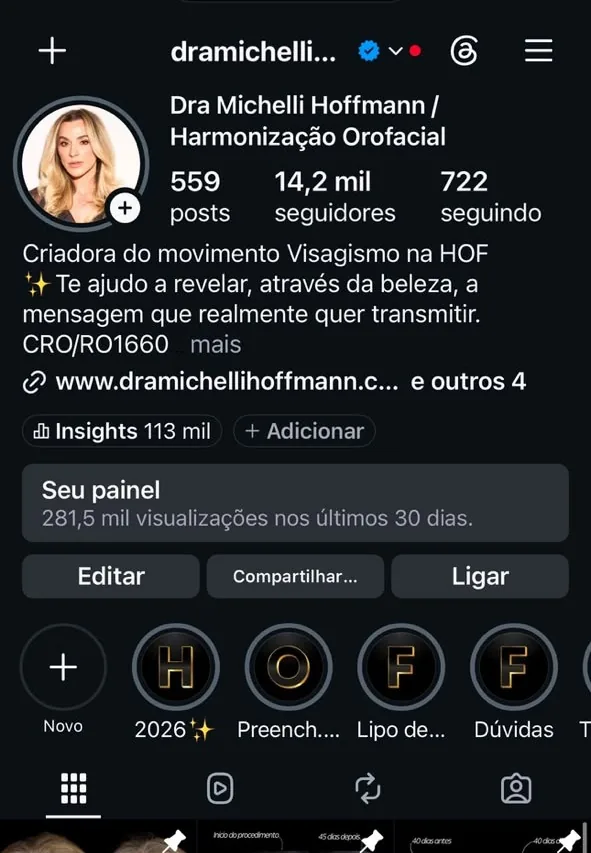
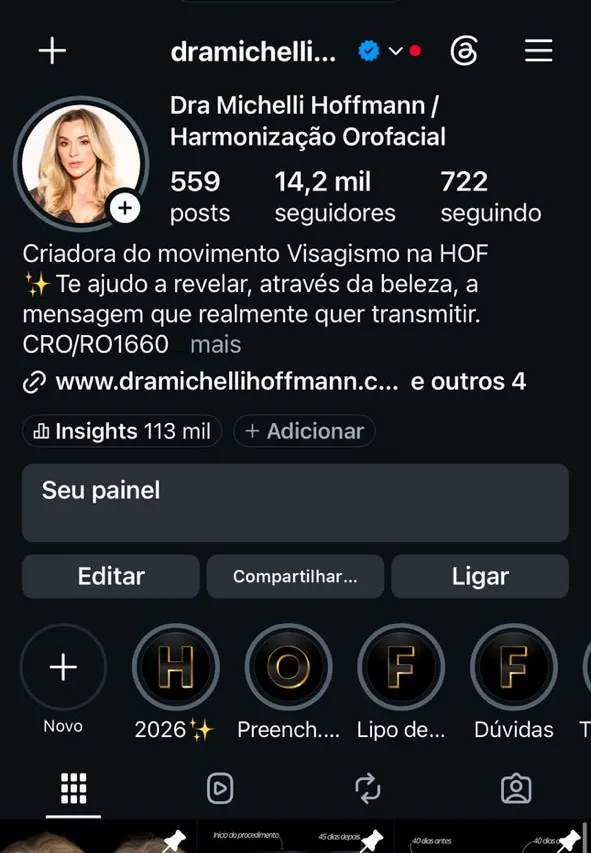
Totais nos prints, Michelli nova, sem headline nos serviços e espaçamento mais justo
Ainda não publicado: aguardando aprovação final.

Claude-Session: https://claude.ai/code/session_01Qdzs8DidFmEUhaW9UrPSR9

Changed region(s): [[0.0609, 0.5791, 0.5178, 0.6401], [0.6701, 0.5791, 0.7919, 0.6401], [0.5482, 0.5791, 0.6396, 0.6401]]

diff --git a/index.html b/index.html
@@ -189,7 +189,6 @@
           <div class="cine__copy">
             <p class="cine__kicker"><i></i>Meta, Google e TikTok Ads</p>
             <h3 class="cine__name"><span class="cine__line"><span>Tráfego pago</span></span></h3>
-            <p class="cine__title"><span class="cine__line"><span>Anúncio certo,</span></span><span class="cine__line"><span>pessoa certa,</span></span><span class="cine__line"><span>no seu WhatsApp.</span></span></p>
             <p class="cine__text">Anúncios no Instagram, Facebook, Google, YouTube e TikTok, com a campanha certa para cada objetivo.</p>
             <ul class="cine__feats"><li>Mensagens no WhatsApp</li><li>Formulários de cadastro (leads)</li><li>Ganho de seguidores</li><li>Pesquisa no Google</li><li>Anúncios no YouTube</li><li>Vendas no e-commerce</li></ul>
             <a href="https://wa.me/5598982787460?text=Ol%C3%A1!%20Vim%20pelo%20site%20e%20quero%20saber%20sobre%20tr%C3%A1fego%20pago%20%28Meta%2C%20Google%20e%20TikTok%20Ads%29." class="btn btn--primary btn--lg cine__cta" target="_blank" rel="noopener" data-track="whatsapp-trafego">
@@ -230,7 +229,6 @@
             <p class="cine__kicker"><i></i>Alta conversão</p>
             <span class="cine__badge">Bônus: link da bio grátis</span>
             <h3 class="cine__name"><span class="cine__line"><span>Landing pages</span></span></h3>
-            <p class="cine__title"><span class="cine__line"><span>Uma página</span></span><span class="cine__line"><span>feita pra</span></span><span class="cine__line"><span>virar contato.</span></span></p>
             <p class="cine__text">Páginas rápidas e persuasivas, feitas para transformar visitante em contato.</p>
             <ul class="cine__feats"><li>Copy focada em vendas</li><li>Pensada para o celular</li><li>Carregamento rápido</li><li>Botão direto para o WhatsApp</li><li>Formulário de captura</li><li>Pixel e Google Tag instalados</li><li class="cine__feat--hl">Link da bio incluso, sem custo, para quem fecha a landing page</li></ul>
             <a href="https://wa.me/5598982787460?text=Ol%C3%A1!%20Vim%20pelo%20site%20e%20quero%20uma%20landing%20page%20para%20o%20meu%20neg%C3%B3cio." class="btn btn--primary btn--lg cine__cta" target="_blank" rel="noopener" data-track="whatsapp-landing">
@@ -290,7 +288,6 @@
           <div class="cine__copy">
             <p class="cine__kicker"><i></i>Reels, anúncios e YouTube</p>
             <h3 class="cine__name"><span class="cine__line"><span>Edição de vídeos</span></span></h3>
-            <p class="cine__title"><span class="cine__line"><span>Prende nos</span></span><span class="cine__line"><span>primeiros segundos.</span></span><span class="cine__line"><span>Vende no final.</span></span></p>
             <p class="cine__text">Vídeos dinâmicos, com legenda, cortes e efeitos, que seguram a atenção e levam pra ação.</p>
             <ul class="cine__feats"><li>Reels e TikTok</li><li>Criativos para anúncios</li><li>Vídeos para YouTube</li><li>Legendas dinâmicas</li><li>Motion e efeitos</li><li>Cortes de lives e podcasts</li></ul>
             <a href="https://wa.me/5598982787460?text=Ol%C3%A1!%20Vim%20pelo%20site%20e%20quero%20edi%C3%A7%C3%A3o%20de%20v%C3%ADdeos." class="btn btn--primary btn--lg cine__cta" target="_blank" rel="noopener" data-track="whatsapp-videos">
@@ -343,7 +340,6 @@
           <div class="cine__copy">
             <p class="cine__kicker"><i></i>Perfil da Empresa no Google</p>
             <h3 class="cine__name"><span class="cine__line"><span>Google Meu Negócio</span></span></h3>
-            <p class="cine__title"><span class="cine__line"><span>Quem procura perto,</span></span><span class="cine__line"><span>acha você</span></span><span class="cine__line"><span>antes do concorrente.</span></span></p>
             <p class="cine__text">Seu perfil no Google organizado para aparecer no mapa e transformar busca em ligação, rota e visita.</p>
             <ul class="cine__feats"><li>Perfil da Empresa no Google otimizado</li><li>Aparecer no mapa antes do concorrente</li><li>Fotos, categorias e avaliações organizadas</li><li>Mais ligações, rotas e visitas</li></ul>
             <a href="https://wa.me/5598982787460?text=Quero%20aparecer%20no%20Google" class="btn btn--primary btn--lg cine__cta" target="_blank" rel="noopener" data-track="whatsapp-gmb">
@@ -385,7 +381,6 @@
           <div class="cine__copy">
             <p class="cine__kicker"><i></i>Instagram estratégico</p>
             <h3 class="cine__name"><span class="cine__line"><span>Social media</span></span></h3>
-            <p class="cine__title"><span class="cine__line"><span>Perfil que</span></span><span class="cine__line"><span>explica, convence</span></span><span class="cine__line"><span>e leva pra compra.</span></span></p>
             <p class="cine__text">Postagens que apresentam seu produto ou serviço de forma estratégica e levam o seguidor até a compra.</p>
             <ul class="cine__feats"><li>Planejamento focado em vendas</li><li>Carrosséis que explicam seu produto</li><li>Posts que valorizam seu serviço</li><li>Stories que geram conversa</li><li>Legendas persuasivas</li><li>Análise do que mais vende</li></ul>
             <a href="https://wa.me/5598982787460?text=Ol%C3%A1!%20Vim%20pelo%20site%20e%20quero%20social%20media%20para%20o%20meu%20Instagram." class="btn btn--primary btn--lg cine__cta" target="_blank" rel="noopener" data-track="whatsapp-social">
@@ -447,7 +442,7 @@
         <h3 class="proof__group reveal">No tráfego pago</h3>
         <ul class="proof__row proof__row--traf">
           <li class="proof holo reveal">
-            <div class="proof__head"><span class="proof__seg">Motel</span><strong class="proof__big">3.048 conversas no WhatsApp</strong><ul class="proof__meta"><li>R$ 2,58 por conversa</li><li>1.760 visitas ao perfil</li></ul></div>
+            <div class="proof__head"><span class="proof__seg">Motel</span><strong class="proof__big">3.048 conversas no WhatsApp</strong><ul class="proof__meta"><li>R$ 2,58 por conversa</li><li>14.121 visitas ao perfil</li></ul></div>
             <a class="proof__img proof__img--wide" href="assets/img/provas/trafego-velox.webp" target="_blank" rel="noopener" aria-label="Ver print ampliado: Motel">
               <img src="assets/img/provas/trafego-velox.webp" alt="Print do Gerenciador de Anúncios: 3.048 conversas no WhatsApp, motel" loading="lazy" decoding="async">
             </a>
@@ -459,20 +454,20 @@
             </a>
           </li>
           <li class="proof holo reveal">
-            <div class="proof__head"><span class="proof__seg">Empório</span><strong class="proof__big">421 conversas no WhatsApp</strong><ul class="proof__meta"><li>R$ 3,61 por conversa</li><li>34.411 visitas ao perfil</li></ul></div>
+            <div class="proof__head"><span class="proof__seg">Empório</span><strong class="proof__big">1.105 conversas no WhatsApp</strong><ul class="proof__meta"><li>De R$ 3,61 a R$ 4,98 por conversa</li><li>34.411 visitas ao perfil</li></ul></div>
             <a class="proof__img proof__img--wide" href="assets/img/provas/trafego-emporio.webp" target="_blank" rel="noopener" aria-label="Ver print ampliado: Empório">
-              <img src="assets/img/provas/trafego-emporio.webp" alt="Print do Gerenciador de Anúncios: 421 conversas no WhatsApp, empório" loading="lazy" decoding="async">
+              <img src="assets/img/provas/trafego-emporio.webp" alt="Print do Gerenciador de Anúncios: 1.105 conversas no WhatsApp, empório" loading="lazy" decoding="async">
             </a>
           </li>
           <li class="proof holo reveal">
-            <div class="proof__head"><span class="proof__seg">Loja de materiais</span><strong class="proof__big">806 conversas no WhatsApp</strong><ul class="proof__meta"><li>R$ 5,84 por conversa</li><li>799 visitas ao perfil</li></ul></div>
+            <div class="proof__head"><span class="proof__seg">Loja de materiais</span><strong class="proof__big">896 conversas no WhatsApp</strong><ul class="proof__meta"><li>De R$ 5,84 a R$ 7,18 por conversa</li><li>799 visitas ao perfil</li></ul></div>
             <a class="proof__img proof__img--wide" href="assets/img/provas/trafego-teia.webp" target="_blank" rel="noopener" aria-label="Ver print ampliado: Loja de materiais">
-              <img src="assets/img/provas/trafego-teia.webp" alt="Print do Gerenciador de Anúncios: 806 conversas no WhatsApp, loja de materiais" loading="lazy" decoding="async">
+              <img src="assets/img/provas/trafego-teia.webp" alt="Print do Gerenciador de Anúncios: 896 conversas no WhatsApp, loja de materiais" loading="lazy" decoding="async">
             </a>
           </li>
         </ul>
 
-        <h3 class="proof__group reveal">No social media <span>· últimos 30 dias</span></h3>
+        <h3 class="proof__group reveal">No social media <span>· em 30 dias</span></h3>
         <ul class="proof__row proof__row--soc">
           <li class="proof holo reveal">
             <div class="proof__head"><span class="proof__seg">Reduto Gym</span><strong class="proof__big">1,1 milhão de visualizações</strong><ul class="proof__meta"><li>+497 seguidores no mês</li></ul></div>
@@ -483,10 +478,10 @@
             <span class="proof__cap">Reduto Gym</span>
           </li>
           <li class="proof holo reveal">
-            <div class="proof__head"><span class="proof__seg">Dra. Michelli Hoffmann</span><strong class="proof__big">281 mil visualizações</strong><ul class="proof__meta"><li>+450 seguidores no mês</li></ul></div>
+            <div class="proof__head"><span class="proof__seg">Dra. Michelli Hoffmann</span><strong class="proof__big">840 mil visualizações</strong><ul class="proof__meta"><li>+1.877 seguidores no mês</li></ul></div>
             <div class="proof__pair">
               <a class="proof__img" href="assets/img/provas/social-michelli.webp" target="_blank" rel="noopener" aria-label="Ver perfil ampliado: Dra. Michelli Hoffmann"><img src="assets/img/provas/social-michelli.webp" alt="Perfil do Instagram de Dra. Michelli Hoffmann" loading="lazy" decoding="async"></a>
-              <a class="proof__img" href="assets/img/provas/painel-michelli.webp" target="_blank" rel="noopener" aria-label="Ver painel ampliado: Dra. Michelli Hoffmann"><img src="assets/img/provas/painel-michelli.webp" alt="Painel do Instagram de Dra. Michelli Hoffmann: 281 mil visualizações" loading="lazy" decoding="async"></a>
+              <a class="proof__img" href="assets/img/provas/painel-michelli.webp" target="_blank" rel="noopener" aria-label="Ver painel ampliado: Dra. Michelli Hoffmann"><img src="assets/img/provas/painel-michelli.webp" alt="Painel do Instagram de Dra. Michelli Hoffmann: 840 mil visualizações" loading="lazy" decoding="async"></a>
             </div>
             <span class="proof__cap">Dra. Michelli Hoffmann</span>
           </li>
@@ -635,7 +630,7 @@
       </ul>
 
       <div class="about__cta reveal">
-        <p class="about__tagline">Post não vende. Anúncio bem feito vende.</p>
+        <p class="about__tagline">Post sem estratégia não vende. Anúncio bem feito vende.</p>
         <p>Quer saber o que dá pra fazer no seu negócio? Conte pra gente e montamos a estratégia com você.</p>
         <a href="https://wa.me/5598982787460?text=Ol%C3%A1!%20Vim%20pelo%20site%20e%20quero%20falar%20com%20um%20especialista%20da%20Filtrum." class="btn btn--primary btn--lg" target="_blank" rel="noopener" data-track="whatsapp-especialista">
           <svg class="ico" aria-hidden="true"><use href="#i-whats"/></svg> Fale com um especialista

diff --git a/assets/css/style.css b/assets/css/style.css
@@ -1,5 +1,5 @@
 /* =========================================================
-   FILTRUM MARKETING DIGITAL — Landing page (estilo futurista / IA)
+   FILTRUM MARKETING DIGITAL: Landing page (estilo futurista / IA)
    Paleta: Midnight Black #030407 · Electric Cobalt #1558C9 · Acid Lime #D4FF24
    ========================================================= */
 
@@ -704,7 +704,7 @@ button { font: inherit; }
 .js .segment.reveal.is-visible:hover { transform: translateY(-6px); }
 
 /* =========================================================
-   PÁGINA DE LINKS (/links) — link da bio do Instagram
+   PÁGINA DE LINKS (/links): link da bio do Instagram
    ========================================================= */
 .js .links-page .reveal { filter: none; transition-duration: .5s; }
 .links-page .hero.links {
@@ -959,4 +959,24 @@ button { font: inherit; }
   .proof__row::-webkit-scrollbar { display: none; }
   .proof { flex: 0 0 86%; scroll-snap-align: start; padding: 14px; }
   .proof__big { font-size: 1.2rem; }
+}
+
+/* =======================================================
+   Espaçamento mais justo entre e dentro das seções
+   ======================================================= */
+.section { padding: clamp(48px, 6vw, 76px) 0; }
+.section__head { margin-bottom: clamp(24px, 3.4vw, 38px); }
+.cta-final { padding: clamp(56px, 7vw, 88px) 0; }
+.oqf { padding: 24px 0 28px; }
+.about__grid { margin-top: 24px; }
+.about__stats { margin-top: 28px; }
+.about__cta { margin-top: 28px; }
+.proof__row { margin-bottom: 30px; }
+.proof__group { margin: 0 0 14px; }
+.faq__item + .faq__item { margin-top: 10px; }
+@media (max-width: 560px) {
+  .section { padding: 44px 0; }
+  .about__grid { margin-top: 20px; }
+  .about__stats { margin-top: 22px; }
+  .about__cta { margin-top: 22px; }
 }

diff --git a/assets/css/cine.css b/assets/css/cine.css
@@ -468,3 +468,17 @@
   letter-spacing:.02em;color:#0A1430;background:var(--lime);box-shadow:0 0 22px -4px rgba(212,255,36,.7)}
 .cine__badge::before{content:"★"}
 .cine__feats li.cine__feat--hl{border-color:rgba(212,255,36,.6);background:rgba(212,255,36,.12);color:#fff}
+
+/* ===== espaçamento mais justo nas cenas de serviço ===== */
+.cine__head{padding-top:64px;padding-bottom:4px}
+.cine__scene{min-height:auto}
+.cine__inner{padding:52px max(24px,env(safe-area-inset-right)) 52px max(24px,env(safe-area-inset-left))}
+.cine__name{margin-top:12px}
+.cine__text{margin-top:12px}
+.cine__feats{margin-top:16px}
+.cine__cta{margin-top:22px}
+@media (max-width:900px){
+  .cine__inner{padding:40px 20px 44px;gap:20px}
+  .cine__stage{height:300px}
+  .cine__head{padding-top:48px}
+}

diff --git a/links/index.html b/links/index.html
@@ -586,7 +586,7 @@
             <span class="cx__bar cx__bar--top" aria-hidden="true"></span><span class="cx__bar cx__bar--bottom" aria-hidden="true"></span><span class="cx__light" aria-hidden="true"></span><span class="cx__word" aria-hidden="true">Tráfego</span><span class="cx__sweep" aria-hidden="true"></span>
             <div class="card__txt">
               <p class="card__title"><span class="cx__mask"><span>Tráfego pago</span></span></p>
-              <p class="card__sub">Meta Ads e Google Ads</p>
+              <p class="card__sub">Meta, Google e TikTok Ads</p>
               <span class="card__btn">Chamar no Whats</span>
             </div>
             <div class="card__art" aria-hidden="true">
